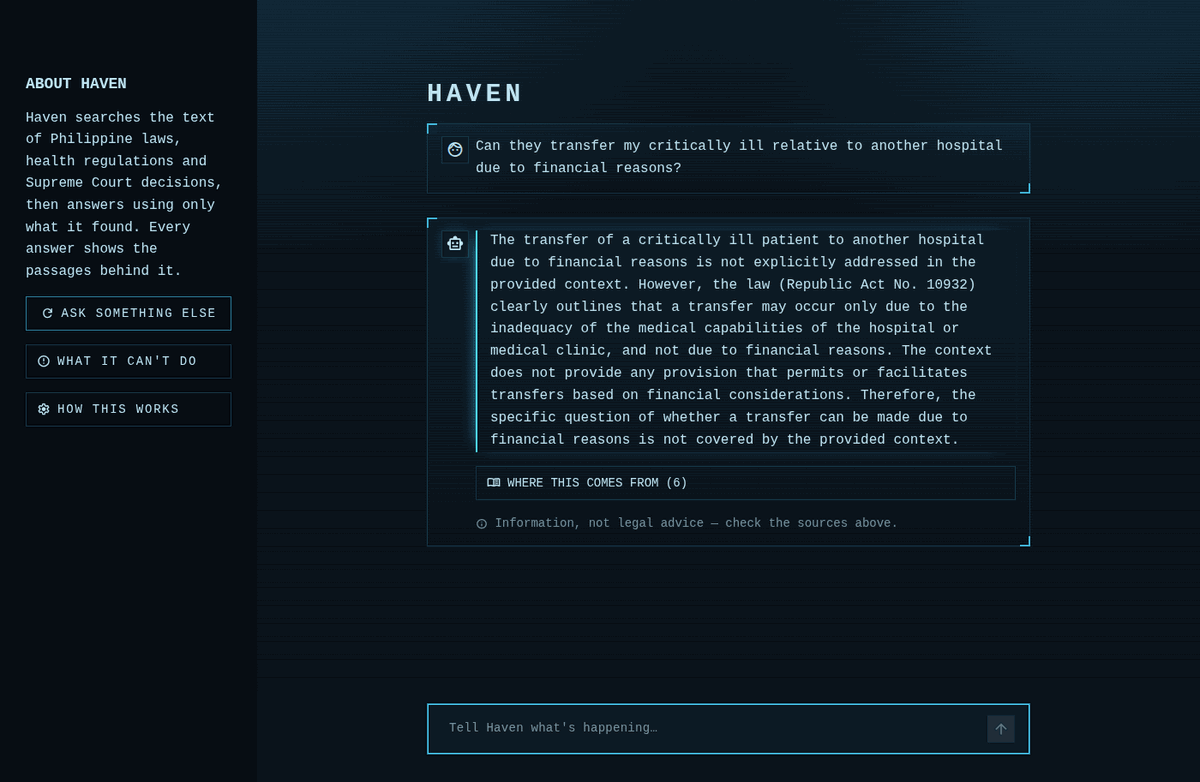
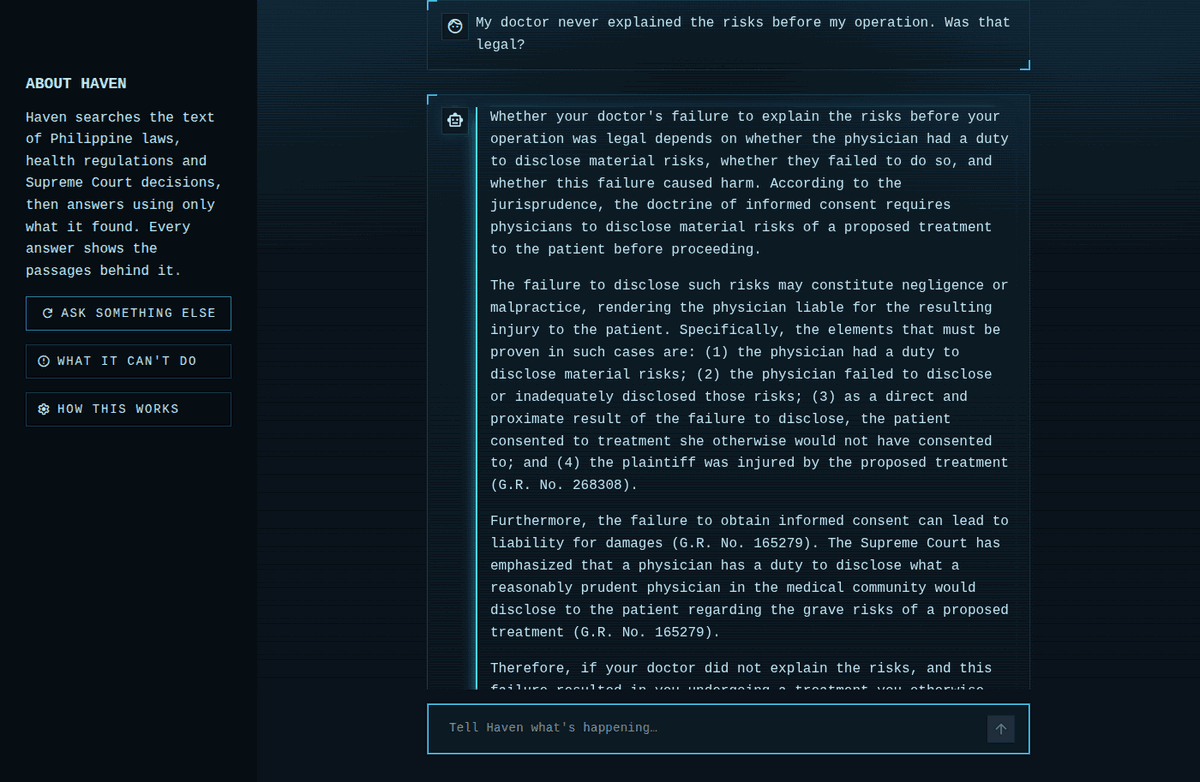
updated README

diff --git a/README.md b/README.md
@@ -24,7 +24,7 @@ store, and a local LLM. No API keys, no per-question cost.
 common situations to start from ("The hospital won't release my relative's body
 until we pay"), and presents sources in plain language.
 
-![Haven answering a question, with every claim cited to a specific law and section](docs/screenshots/haven-qa.png)
+![Haven answering a question about informed consent, citing the elements test and two Supreme Court decisions](docs/screenshots/haven-qa.png)
 
 ```bash
 streamlit run app.py
